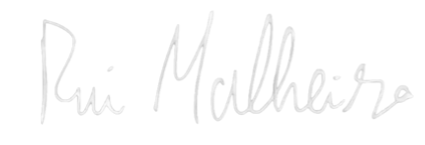
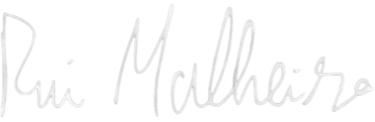
adjustments leader

diff --git a/src/components/LeaderMessage/LeaderMessage.js b/src/components/LeaderMessage/LeaderMessage.js
@@ -12,16 +12,15 @@ export const LeaderMessage = () => {
     <Grid container className="leader-section">
       <Grid
         container
-        spacing={8}
         className="leader-message"
-        justifyContent="space-around"
+        justifyContent="flex-start"
         alignItems="center"
         style={{ width: "100%" }}
       >
         <Grid item xs={12} md={6} className="leader-text-container">
-          <Typography variant="h6" className="leader-message-title">
-            "Liberais, quero-vos manifestar um desejo e uma ambição: deixar um
-            Portugal mais liberal para os nossos filhos, para os nossos netos e,
+          <Typography variant="body1" className="leader-message-body">
+            Liberais, quero-vos manifestar um desejo e uma ambição: deixar um
+            Portugal mais liberal para os nossos filhos, para os nossos netos e
             porque não, para nós próprios!
           </Typography>
 
@@ -29,41 +28,64 @@ export const LeaderMessage = () => {
             O percurso do partido desde a minha entrada em 2020 tem sido
             notável, e é um orgulho fazer parte desta família e ter contribuído
             para que o nosso partido e todos os membros chegassem ao patamar em
-            que hoje nos encontramos! No entanto, chegou a altura de darmos um
-            passo em frente, para com coragem transformarmos Portugal num país
-            mais liberal, em que todos tenham a liberdade para serem felizes,
-            sem amarras económicas, sociais ou políticas.
+            que hoje nos encontramos!
           </Typography>
 
           <Typography variant="body1" className="leader-message-body">
-            Transformar este sonho em realidade só depende de nós. Unidos,
-            podemos concretizar este objetivo e fazer deste partido um exemplo
-            na política nacional. Estão à porta umas eleições de proximidade,
-            onde cada indivíduo terá a oportunidade de ser um elemento
-            dinamizador do partido na sua região. O indivíduo tem uma força
-            extraordinária, mas os nossos Núcleos Territoriais, com mais
-            recursos e apoio nacional, terão um papel importantíssimo nesta
-            batalha.
+            No entanto, chegou a altura de darmos um passo em frente, para com
+            Coragem Transformarmos Portugal num país mais liberal, em que todos
+            tenham a liberdade para serem felizes, sem amarras económicas,
+            sociais ou políticas, onde o limite da felicidade de cada um dependa
+            apenas do próprio e não do Estado ou de outra entidade externa.
           </Typography>
 
           <Typography variant="body1" className="leader-message-body">
-            Contem comigo, com a mesma coragem de sempre, para transformar
+            Transformar este sonho em realidade só depende de nós, de um
+            verdadeiro sobressalto liberal, que, Unidos, podemos concretizar!
+          </Typography>
+
+          <Typography variant="body1" className="leader-message-body">
+            Liberais, o desafio é grande mas sei exatamente como o alcançar. A
+            União entre os liberais, trabalhando Unidos, com respeito pelos
+            nossos valores e princípios fundacionais, pode fazer deste partido
+            um exemplo na política nacional e catapultar a política nacional
+            para um patamar de excelência.
+          </Typography>
+
+          <Typography variant="body1" className="leader-message-body">
+            Estão à porta umas eleições de proximidade, onde cada indivíduo terá
+            a oportunidade de ser um elemento dinamizador do partido na sua
+            região. O indivíduo tem uma força extraordinária, mas os nossos
+            Núcleos Territoriais, com mais recursos e apoio nacional, terão um
+            papel importantíssimo nesta batalha que, como qualquer batalha
+            liberal, se deve focar nas suas ideias, na melhoria das condições de
+            vida dos portugueses, sustentado no nosso fortíssimo ideário liberal
+          </Typography>
+
+          <Typography variant="body1" className="leader-message-body">
+            Contem comigo, com a mesma Coragem de sempre, para Transformar
             Portugal!
           </Typography>
 
+          <Typography variant="body1" className="leader-message-body">
+            Um abraço,
+          </Typography>
           <div className="signature">
-            <Typography variant="body1" className="leader-message-body">
-              Um abraço."
-            </Typography>
-            <img src={assinaturaRui} alt="assinaturaRui" />
+            <img
+              src={assinaturaRui}
+              alt="assinaturaRui"
+              style={{ marginTop: "20px" }}
+            />
           </div>
         </Grid>
         <Grid item xs={12} md={3} className="leader-image-container">
-          <img
-            src={LeaderImage}
-            alt="Leader"
-            style={{ width: "100%", height: "auto" }}
-          />
+          <div className="image-fade-container">
+            <img
+              src={LeaderImage}
+              alt="Leader"
+              style={{ width: "100%", height: "auto" }}
+            />
+          </div>
         </Grid>
         <Grid
           container

diff --git a/src/components/LeaderMessage/LeaderMessage.css b/src/components/LeaderMessage/LeaderMessage.css
@@ -1,50 +1,55 @@
 /* Updated LeaderMessage.css */
-.leader-message {
+
+.leader-section {
   background: linear-gradient(
     to bottom,
     var(--dark-blue-color),
     var(--light-blue-color)
   );
+}
+
+.leader-message {
+  margin: 10vh 10vw 4vh 10vw;
   color: white;
-  padding: 40px 20px;
-  display: flex;
-  flex-wrap: wrap;
-  justify-content: flex-start;
-  align-items: center;
 }
 
 .leader-image-container {
   max-width: 300px;
   flex: 1 1 40%;
-  display: flex;
-  justify-content: flex-start;
-  align-items: center;
+}
+
+.image-fade-container {
+  position: relative;
+  display: inline-block;
+}
+
+.image-fade-container img {
+  width: 100%;
+  height: auto;
+  -webkit-mask-image: linear-gradient(to bottom, black 70%, transparent 100%);
+  -webkit-mask-size: 100% 100%;
+  -webkit-mask-repeat: no-repeat;
+  mask-image: linear-gradient(to bottom, black 70%, transparent 100%);
+  mask-size: 100% 100%;
+  mask-repeat: no-repeat;
 }
 
 .leader-text-container {
-  max-width: 900px;
+  max-width: 1000px;
   flex: 1 1 60%;
   text-align: left;
   padding: 20px;
 }
 
-.leader-message-title {
-  font-size: 24px;
-  margin-bottom: 20px;
-  font-weight: bold;
-}
-
 .leader-message-body {
-  font-size: 16px;
-  margin-bottom: 20px;
-  line-height: 1.6;
+  font-size: 18px;
+  margin-bottom: 6px !important;
 }
 
 .leader-logo-container {
   display: flex;
   justify-content: space-between;
   width: 100%;
-  margin-top: 20px;
 }
 
 .leader-button {
@@ -66,7 +71,6 @@
 }
 
 .signature {
-  display: flex;
   img {
     height: 100px;
   }
@@ -77,5 +81,5 @@
 }
 
 .logo-lista img {
-  height: 100px;
+  height: 150px;
 }

diff --git a/src/components/Team/Team.css b/src/components/Team/Team.css
@@ -2,8 +2,8 @@
 .team-section {
   background: linear-gradient(
     to bottom,
-    var(--light-blue-color),
-    var(--dark-blue-color)
+    var(--dark-blue-color),
+    var(--light-blue-color)
   );
   display: grid;
   grid-template-columns: repeat(auto-fit, minmax(250px, 1fr));
